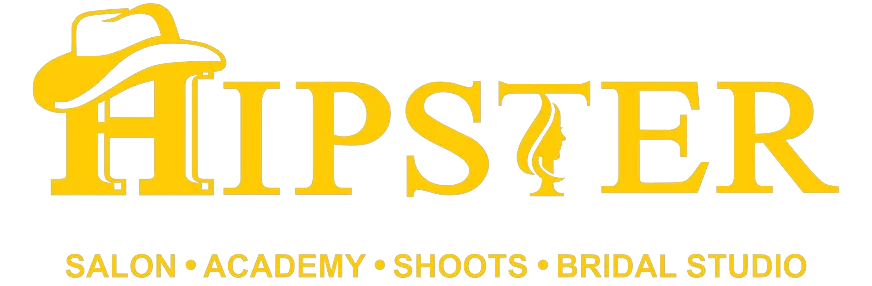
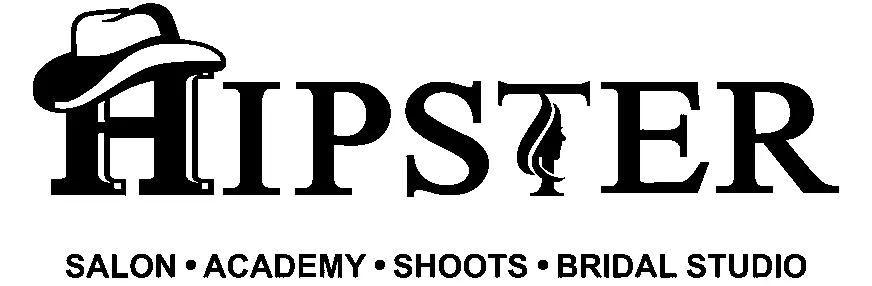
added logsos

Changed region(s): [[0.031, 0.0, 0.9599, 0.6993], [0.0619, 0.8671, 0.9289, 0.979]]

diff --git a/app/page.tsx b/app/page.tsx
@@ -72,6 +72,11 @@ const row1Brands = [
   { name: "Cut&Style", logo: brandC },
   { name: "LOOKS", logo: brandD },
   { name: "Page 3", logo: brandE },
+  { name: "Hair Masters", logo: hairMastersLogo },
+  { name: "Play Salon", logo: playSalonLogo },
+  { name: "Hipster Salon", logo: hipsterSalonLogo },
+  { name: "Shivanjali Wellness", logo: shivanjaliLogo },
+
 ];
 
 const row2Brands = [
@@ -83,12 +88,7 @@ const row2Brands = [
   { name: "Luca Piattelli", logo: brand6 },
 ];
 
-const row3Brands = [
-  { name: "Hair Masters", logo: hairMastersLogo },
-  { name: "Hipster Salon", logo: hipsterSalonLogo },
-  { name: "Play Salon", logo: playSalonLogo },
-  { name: "Shivanjali Wellness", logo: shivanjaliLogo },
-];
+
 
 const sections = [
   { id: "hero", color: "white" },
@@ -469,24 +469,7 @@ export default function Home() {
               </div>
             ))}
           </div>
-          {/* Row 3 */}
-          <div className="flex flex-wrap justify-center items-center gap-8 md:gap-14">
-            {row3Brands.map((brand) => (
-              <div
-                key={brand.name}
-                className="flex flex-col items-center gap-3 group"
-              >
-                <div className="w-[120px] md:w-[160px] h-[70px] md:h-[90px] relative flex items-center justify-center">
-                  <Image
-                    src={brand.logo}
-                    alt={brand.name}
-                    fill
-                    className="object-contain"
-                  />
-                </div>
-              </div>
-            ))}
-          </div>
+
         </section>
       </div>
 

diff --git a/app/smart-mirror/page.tsx b/app/smart-mirror/page.tsx
@@ -191,7 +191,7 @@ const currentOperations = [
     image: ops12,
     name: "La Nova Salon",
     location: "Ahmedabad, Gujarat",
-    // isUpcoming: true
+    isUpcoming: true
   },
   { id: 14, image: ops12, name: "Hipster Salon", location: "Thane, Maharashtra", isUpcoming: true },
   { id: 15, image: ops12, name: "Play Salon", location: "Indiranagar, Bengaluru, Karnataka", isUpcoming: true },
@@ -199,6 +199,7 @@ const currentOperations = [
   { id: 17, image: ops12, name: "Hair Masters Salon", location: "Chandigarh", isUpcoming: true },
   { id: 18, image: ops12, name: "Shivanjali Wellness", location: "Bhavnagar, Gujarat", isUpcoming: true },
   { id: 19, image: ops12, name: "Aks Salon", location: "Darbhanga, Bihar", isUpcoming: true },
+  { id: 20, image: ops12, name: "The Little Hair Salon", location: "Viman Nagar, Pune", isUpcoming: true },
 ];
 
 